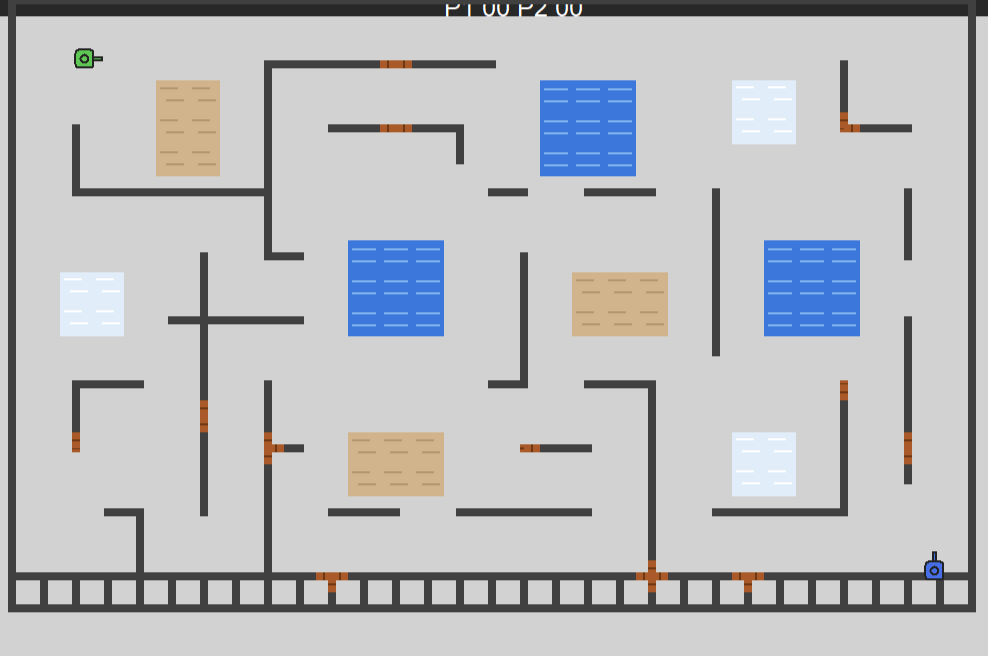
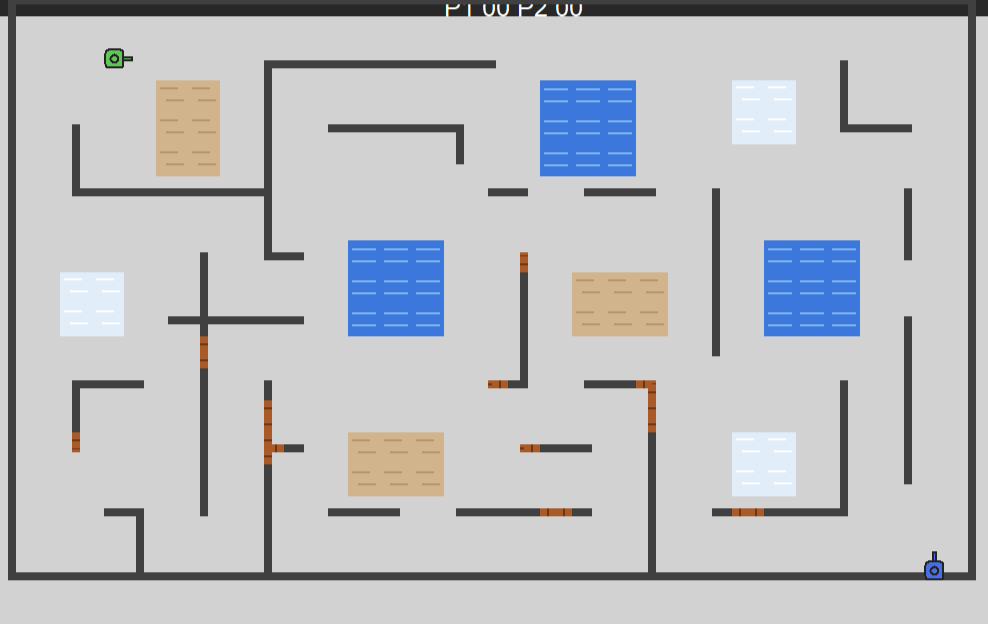
fix: MAP_H 608 (19 odd rows) - single bottom wall row, P2 spawn clear of walls

diff --git a/tools/gen_wide_maze.py b/tools/gen_wide_maze.py
@@ -12,8 +12,8 @@
 import random
 from collections import deque
 
-MW, MH = 31, 20
-SCW, SCH = 15, 9    # maze cells: cols 1..29, rows 1..17; rows 18+19 = bottom wall
+MW, MH = 31, 19    # odd height: single wall row at the bottom (row 18)
+SCW, SCH = 15, 9   # maze cells: cols 1..29, rows 1..17; row 18 = bottom wall
 SPAWNS = [(1,1),(1,29),(17,1),(17,29)]
 
 def rect(r0, c0, w, h):

diff --git a/docs/ROADMAP.md b/docs/ROADMAP.md
@@ -205,3 +205,15 @@
 - [x] 环境块仍内缩 1 圈走道不贴墙；墙密度保持 227-258（复杂迷宫不缩水）
 - [x] 生成器加自检：边界完整 / 环境 4 邻无墙 / 全图连通 / 出生点可达
 - [x] selftest 13 项全过；截图验收 12 块均匀散布
+
+### 2026-10-16 会话 11：底部双墙栅栏修复（用户反馈"底下那些是什么，蓝色的坦克和墙卡一起了"）
+
+- 诊断：MAP_H=640（20 行，偶数）导致迷宫 cell 行占满至 row19，
+  底边出现 row18+row19 双墙行，两行间连接竖线渲染成栅栏状；
+  蓝坦克 P2（出生 row17）紧贴其上显拥挤
+- [x] **根治：MAP_H 640→608（19 行奇数）**，ROWS=MAP_H/CELL 自动 19，
+      底边恢复单行完整墙；窗口高度自动变 640
+- [x] 生成器 MW,MH=31,19；重新生成 5 张图（墙 196-227，
+      ALL CHECKS OK：边界/环境不贴墙/连通/出生点可达）
+- [x] selftest 13 项全过；截图验收：底部单墙线、P2 不再贴墙、
+      环境分散不贴墙
